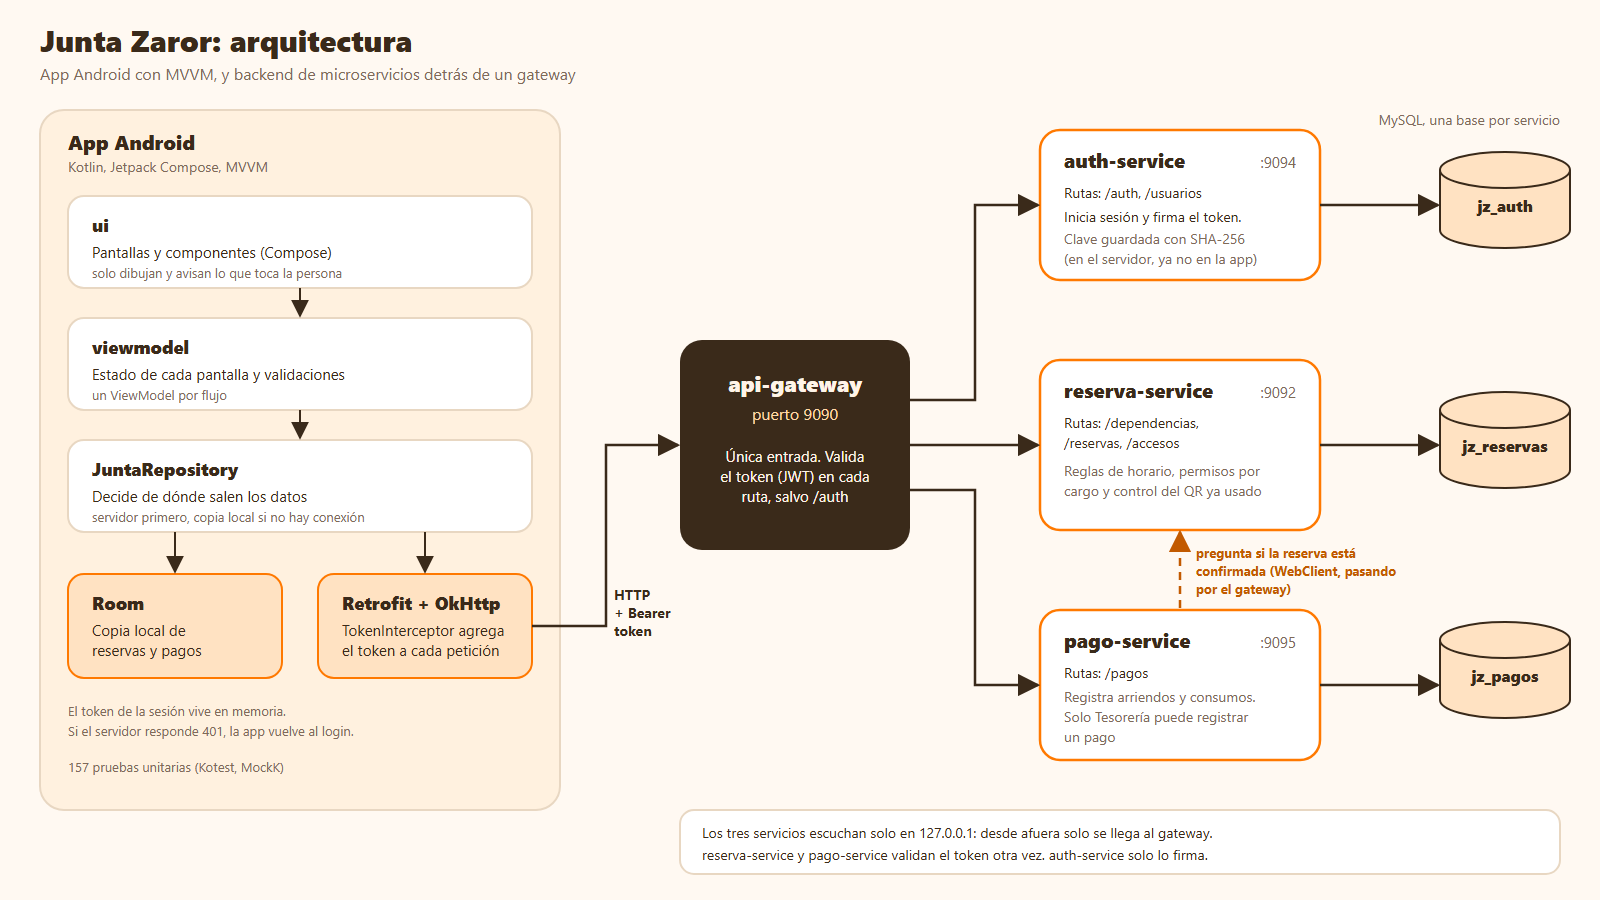
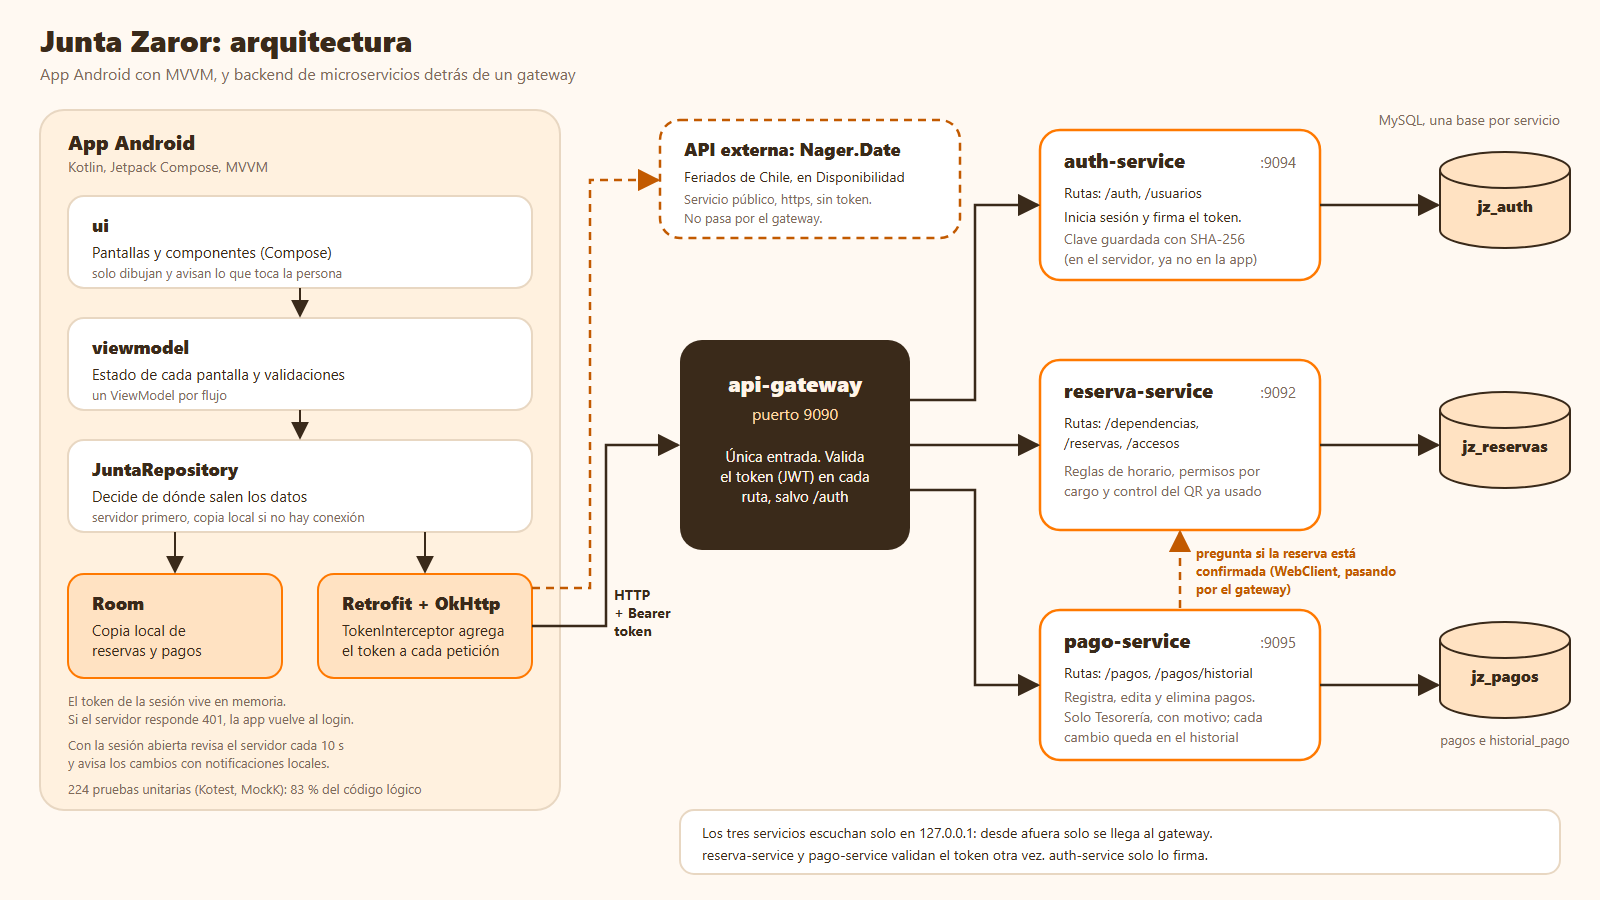
README, contrato y diagrama al día

diff --git a/README.md b/README.md
@@ -5,9 +5,9 @@ Backend de microservicios de la app [AppJuntaVecinos](https://github.com/PabloRi
 | | |
 |---|---|
 | Asignatura | DSY1105 Desarrollo de Aplicaciones Móviles, Duoc UC |
-| Evaluación | Parcial 4 |
+| Evaluación | Parcial 4 (encargo) y Parcial 5 (defensa) |
 | Integrantes | Pablo Alexander Rico Rodríguez, William Martín Rodríguez Troncoso |
-| Pila | Java 21, Spring Boot 4.0.5, Spring Cloud Gateway, Spring Security, JPA con MySQL, JWT |
+| Pila | Java 21, Spring Boot 4.0.5 (el gateway, 3.3.5, como en el ejemplo del docente), Spring Cloud Gateway, Spring Security, JPA con MySQL, JWT |
 
 ## Arquitectura
 
@@ -29,6 +29,42 @@ Backend de microservicios de la app [AppJuntaVecinos](https://github.com/PabloRi
 
 Se mantuvieron los nombres del ejemplo de código del docente. La propuesta dice que los nombres y los atributos pueden ajustarse. Lo que no se implementó está en la sección Alcance y limitaciones.
 
+## Modelo de datos
+
+Cada servicio es dueño de sus tablas y ninguno lee las de otro: `pago-service` pregunta por la reserva a `reserva-service`, no a su base. Las tablas las crea JPA al arrancar (`ddl-auto=update`).
+
+| Base | Tabla (entidad) | Campos | Para qué |
+|---|---|---|---|
+| `jz_auth` | `Usuario` | id, nombre, correo, clave (hash SHA-256), rol, cargo | Las cuentas. El rol es VECINO o DIRECTIVA; el cargo, SECRETARIA, TESORERIA o PRESIDENCIA |
+| `jz_reservas` | `Dependencia` | id, nombre | Las salas: Salón Principal y Sala Multiuso |
+| `jz_reservas` | `Reserva` | id, dependenciaId, vecinoId, fecha, horaInicio, horaFin, estado, fechaSolicitud, gestionadaPorId | Las solicitudes y su estado: PENDIENTE, CONFIRMADA, RECHAZADA o CANCELADA |
+| `jz_reservas` | `Acceso` | reservaId, fecha, hora | Los QR que ya entraron por la puerta. reservaId es la clave: un QR no entra dos veces |
+| `jz_pagos` | `Pago` | id, reservaId, tipo, categoria, monto, fecha, comprobanteUri, registradoPorId, descripcion | Arriendos y consumos básicos. reservaId es único: un arriendo no se paga dos veces |
+| `jz_pagos` | `HistorialPago` | id, pagoId, accion, tipo, categoria, montoAnterior, montoNuevo, fechaPago, motivo, cargo, usuarioId, fechaHora | Cada pago registrado, editado o eliminado. Lo escribe solo el servidor y no hay ruta para cambiarlo |
+
+Las fechas viajan y se guardan como texto año-mes-día y las horas como `HH:00`, así se comparan y ordenan como texto.
+
+## Qué viene del ejemplo del docente y qué es nuestro
+
+El ejemplo de referencia es `Microservicios-Docker-Con-JWT`, que se vio en clase.
+
+| Pieza | Origen |
+|---|---|
+| Gateway con Spring Cloud Gateway que reparte por ruta | Ejemplo del docente |
+| Login que firma un JWT con jjwt, y validación del JWT con `oauth2-resource-server` | Ejemplo del docente |
+| Capas `controller`, `service`, `repository`, `model`, `dto`, `exception` y `config`, y un `DataLoader` | Ejemplo del docente |
+| Un servicio que llama a otro con `WebClient` | Ejemplo del docente (`pago-service` y `compra-service`) |
+| Cuerpo de error `timestamp`, `status`, `error`, `message`, `path` | Ejemplo del docente |
+| JPA con MySQL, Lombok y pruebas con JUnit 5, Mockito y `MockMvc` | Ejemplo del docente |
+| Clave con hash | El ejemplo usa SHA-1; aquí, SHA-256 |
+| Permisos por rol y cargo leídos del token (`@AuthenticationPrincipal Jwt`) | Nuestro: el token del ejemplo solo lleva el correo |
+| `ResponseStatusException` con un manejador central | Nuestro: el ejemplo usa una excepción propia por tipo. El cuerpo del error es el mismo |
+| Servicios que escuchan solo en `127.0.0.1` y claves en un `.env` | Nuestro: el ejemplo deja la clave del JWT escrita en el código |
+| Reglas de reserva, de pago, del QR usado y el historial de pagos con motivo | Nuestro: es la lógica del caso |
+| Scripts de PowerShell para encender y apagar | Nuestro: el ejemplo se enciende con Docker |
+
+Del ejemplo no se usaron Docker Compose, Liquibase, Swagger, HATEOAS, Actuator, Datafaker, `@Valid` ni los DTO de respuesta: el caso no los necesitaba. Hay `Dockerfile` para `api-gateway` y `auth-service`, copiados del ejemplo, que no se ejecutan.
+
 ## Endpoints
 
 Todos salen por `http://<equipo>:9090`. Las respuestas son JSON y llevan `Authorization: Bearer <token>`, salvo el login. El detalle de cada cuerpo, de cada regla y de cada mensaje de error está en [CONTRATO_API.md](CONTRATO_API.md), el acuerdo entre la app y el backend.
@@ -38,7 +74,7 @@ Todos salen por `http://<equipo>:9090`. Las respuestas son JSON y llevan `Author
 | Método y ruta | Quién | Qué hace |
 |---|---|---|
 | `POST /auth/login` | Cualquiera | Entra con correo y clave. Responde `{ token, usuario }`. Con `"dispositivo": "PUERTA"` solo entra la directiva y el token dura 7 días |
-| `GET /usuarios` | Cualquier sesión | Lista de usuarios, sin la clave |
+| `GET /usuarios` | Cualquier sesión | Lista de usuarios con nombre, rol y cargo. Sin la clave y sin el correo (va vacío): un vecino no necesita el correo de los demás |
 
 ### reserva-service
 
@@ -63,6 +99,10 @@ Todos salen por `http://<equipo>:9090`. Las respuestas son JSON y llevan `Author
 | `GET /pagos` | Cualquier sesión | Pagos, el más nuevo primero. Al vecino no se le entregan la reserva, el comprobante ni quién lo registró |
 | `GET /pagos/pagadas` | Cualquier sesión | Reservas que ya tienen su pago de arriendo |
 | `POST /pagos` | Tesorería | Registra un pago de arriendo o de un consumo básico |
+| `GET /pagos/{id}` | Cualquier sesión | Un pago. Al vecino le llega sin lo privado, como en la lista |
+| `PUT /pagos/{id}` | Tesorería | Corrige el monto, la fecha, la descripción y, en un consumo, la categoría. El tipo y la reserva no cambian. Exige `motivo` (10 a 200 letras) |
+| `DELETE /pagos/{id}?motivo=...` | Tesorería | Elimina un pago mal registrado (204). Si era un arriendo, la reserva vuelve a quedar por cobrar. Exige el motivo |
+| `GET /pagos/historial` | Cualquier sesión | Cada pago registrado, editado o eliminado, con el monto anterior y el nuevo, el motivo y el cargo de quien lo hizo. Nadie puede editarlo ni borrarlo. Al vecino no le llega el id de la persona |
 
 ### Códigos de respuesta
 
@@ -107,7 +147,7 @@ Se corren desde la carpeta del backend, con `powershell -ExecutionPolicy Bypass 
 |---|---|
 | `levantar.ps1` | Enciende MySQL y los cuatro servicios, uno tras otro, y espera a que cada uno abra su puerto. Se puede correr varias veces: lo que ya está encendido se deja como está. Los mensajes van a `logs\<servicio>.log` |
 | `parar.ps1` | Apaga los cuatro servicios por su puerto. Deja MySQL encendido; con `-ConMySQL` lo apaga también |
-| `reiniciar-datos.ps1` | Deja las bases con los datos de ejemplo recién cargados. Apaga los servicios, borra las tablas de reservas, accesos y pagos, y vuelve a encender todo: cada `DataLoader` las llena de nuevo con fechas calculadas a partir de hoy. Los usuarios no se tocan. Pide la clave de `root` de MySQL |
+| `reiniciar-datos.ps1` | Deja las bases con los datos de ejemplo recién cargados. Apaga los servicios, borra las tablas de reservas, accesos, pagos e historial de pagos, y vuelve a encender todo: cada `DataLoader` las llena de nuevo con fechas calculadas a partir de hoy. Los usuarios no se tocan. Pide la clave de `root` de MySQL |
 
 Puertos: gateway 9090, `reserva-service` 9092, `auth-service` 9094, `pago-service` 9095 y MySQL 3306.
 
@@ -130,22 +170,23 @@ La app se compila con esa dirección en `urlServidor`: ver el [README de la app]
 
 ## Pruebas
 
-68 pruebas automáticas: 45 en `reserva-service` y 23 en `pago-service`, entre servicio (Mockito) y controlador (`MockMvc`). Cubren las reglas de negocio, los permisos por cargo, los códigos de error, el control del QR repetido y la llamada de `pago-service` a `reserva-service`.
+87 pruebas automáticas: 45 en `reserva-service`, 41 en `pago-service` y 1 en `auth-service`. En los dos primeros hay pruebas del servicio (Mockito) y del controlador (`MockMvc`, con un `Jwt` de prueba). Cubren las reglas de negocio, los permisos por cargo, los códigos de error, el control del QR repetido, la llamada de `pago-service` a `reserva-service`, la edición y eliminación de pagos con motivo y el historial.
 
 ```
 cd reserva-service
 .\mvnw.cmd test
 ```
 
-`auth-service` y `api-gateway` no tienen pruebas automáticas: se probaron a mano con Postman y con la app.
+`auth-service` solo tiene la prueba de arranque de la plantilla, y `api-gateway` ninguna: se probaron a mano con Postman y con la app.
 
 ## Alcance y limitaciones
 
 - **Datos y claves.** Todo es ficticio. La clave se guarda con hash SHA-256. La app la envía sin cifrar por la red local de desarrollo, y en un uso real iría sobre HTTPS.
-- **Tablas de la propuesta no creadas.** No existen `historial_reserva`, `categoria_movimiento`, `comprobante`, `informe_financiero` ni `rol`. Quién gestionó una reserva se guarda en la propia reserva, la categoría del pago es un texto y el rol y el cargo del usuario también. `historial_reserva` es lo primero que se sumaría.
+- **Tablas de la propuesta.** Existe el historial de pagos (`HistorialPago`). No existen `historial_reserva`, `categoria_movimiento`, `comprobante`, `informe_financiero` ni `rol`: quién gestionó una reserva se guarda en la propia reserva, la categoría del pago es un texto y el rol y el cargo del usuario también. `historial_reserva` es lo primero que se sumaría.
 - **Comprobantes.** El servidor guarda solo la referencia que envía la app. La imagen no se sube al servidor.
-- **Notificaciones.** El servidor no las envía. La app avisa dentro de la pantalla.
+- **Notificaciones.** El servidor no envía notificaciones push. La app lo consulta cada 10 segundos con la sesión abierta y muestra notificaciones locales. El historial de pagos sí queda guardado en el servidor.
+- **Token de la puerta.** Dura 7 días y lleva los mismos permisos de la cuenta de la directiva que la activó. Para un uso real debería servir solo para registrar ingresos.
 - **Sin conexión.** La app guarda una copia local de lo último que descargó, pero no encola operaciones para enviarlas después.
 - **Disponibilidad.** Todo corre en un solo equipo. Si ese equipo se apaga o pierde la conexión, la app muestra lo último que descargó, pero no puede pedir, confirmar ni pagar nada.
 - **Docker.** Hay `Dockerfile` solo para `api-gateway` y `auth-service`, y no se ejecutan: el backend se enciende con los scripts de PowerShell.
-- **QR.** La firma del QR se genera y se comprueba dentro de la app. El servidor solo recuerda qué QR ya se usó.
+- **QR.** La firma del QR se genera y se comprueba dentro de la app. El servidor solo recuerda qué QR ya se usó: no se revisa de nuevo si el pago sigue registrado.

diff --git a/CONTRATO_API.md b/CONTRATO_API.md
@@ -21,6 +21,7 @@ Escrito el 2026-11-06 a partir del código de `AppJuntaVecinos` en la rama `parc
 |---|---|
 | 200 | Lectura o actualización correcta |
 | 201 | Creación correcta (`POST /reservas`, `POST /pagos`, `POST /accesos`) |
+| 204 | Eliminación correcta, sin cuerpo (`DELETE /pagos/{id}`) |
 | 400 | Datos inválidos (falta un campo, fecha pasada, monto 0…) |
 | 401 | Sin token, token vencido o clave incorrecta |
 | 403 | El token es válido pero el rol o el cargo no puede hacer esto |
@@ -49,7 +50,7 @@ Bloque       { horaInicio, horaFin, estado, vecinoId }                (vecinoId 
 | Método y ruta | Quién | Cuerpo | Respuesta |
 |---|---|---|---|
 | `POST /auth/login` | Cualquiera | `{ "correo", "clave", "dispositivo" }` (`dispositivo` es opcional) | 200 `{ "token", "usuario": Usuario }`. 401 con `"Correo o clave incorrectos"`. Con `"dispositivo": "PUERTA"` solo entra la directiva (403 `Solo la directiva puede activar la puerta`) y el token dura 7 días |
-| `GET /usuarios` | Cualquier sesión | | 200 lista de `Usuario` |
+| `GET /usuarios` | Cualquier sesión | | 200 lista de `Usuario`, con `correo` vacío (`""`) |
 
 - El token (JWT) lleva `sub` (id), `rol`, `cargo` y `nombre`, y vence a las 12 horas (7 días el de la puerta, porque el aparato queda activo sin que nadie lo toque).
 - La clave se guarda con hash SHA-256 en el servidor (el docente aceptó cualquier hash; el ejemplo usa SHA-1 y aquí se sube a SHA-256, igual que la app). La app deja de calcular el hash: envía la clave tal cual por la red local de desarrollo. En producción iría sobre HTTPS; aquí se documenta como limitación.
@@ -100,6 +101,10 @@ Solo las reservas confirmadas bloquean el horario. El checkbox del reglamento es
 | `GET /pagos` | Cualquier sesión | Todos los pagos, más nuevos primero. Para un vecino vienen en `null` `reservaId`, `comprobanteUri` y `registradoPorId`, y la `descripcion` viene vacía (`""`) | `observarPagos` |
 | `GET /pagos/pagadas` | Cualquier sesión | Lista de `reservaId` con pago de arriendo | `observarReservasPagadas`, `reservaPagada` |
 | `POST /pagos` | cargo `TESORERIA` | Registra un pago | `crearPago` |
+| `GET /pagos/{id}` | Cualquier sesión | Un pago; para un vecino, con lo privado vacío como en la lista. 404 si no existe | (no se usa en la app) |
+| `PUT /pagos/{id}` | cargo `TESORERIA` | Corrige `monto`, `fecha`, `descripcion` y, en un consumo, `categoria`, con las mismas reglas de `POST`. `motivo` es obligatorio (10 a 200 letras) y queda en el historial. 404 si no existe | `actualizarPago` |
+| `DELETE /pagos/{id}?motivo=...` | cargo `TESORERIA` | Elimina el pago. El motivo es obligatorio y queda en el historial. Responde 204 sin cuerpo. 404 si no existe | `eliminarPago` |
+| `GET /pagos/historial` | Cualquier sesión | Lista de `HistorialPago`, el más nuevo primero: `accion` (REGISTRADO, EDITADO, ELIMINADO), `montoAnterior`, `montoNuevo`, `motivo`, `cargo`, `fechaHora`. Para un vecino, `usuarioId` viene en `null` | `obtenerHistorialPagos` |
 
 ### Reglas de `POST /pagos`
 Cuerpo: `{ "reservaId", "tipo", "categoria", "monto", "fecha", "comprobanteUri", "descripcion" }`. El servidor completa `registradoPorId`.
